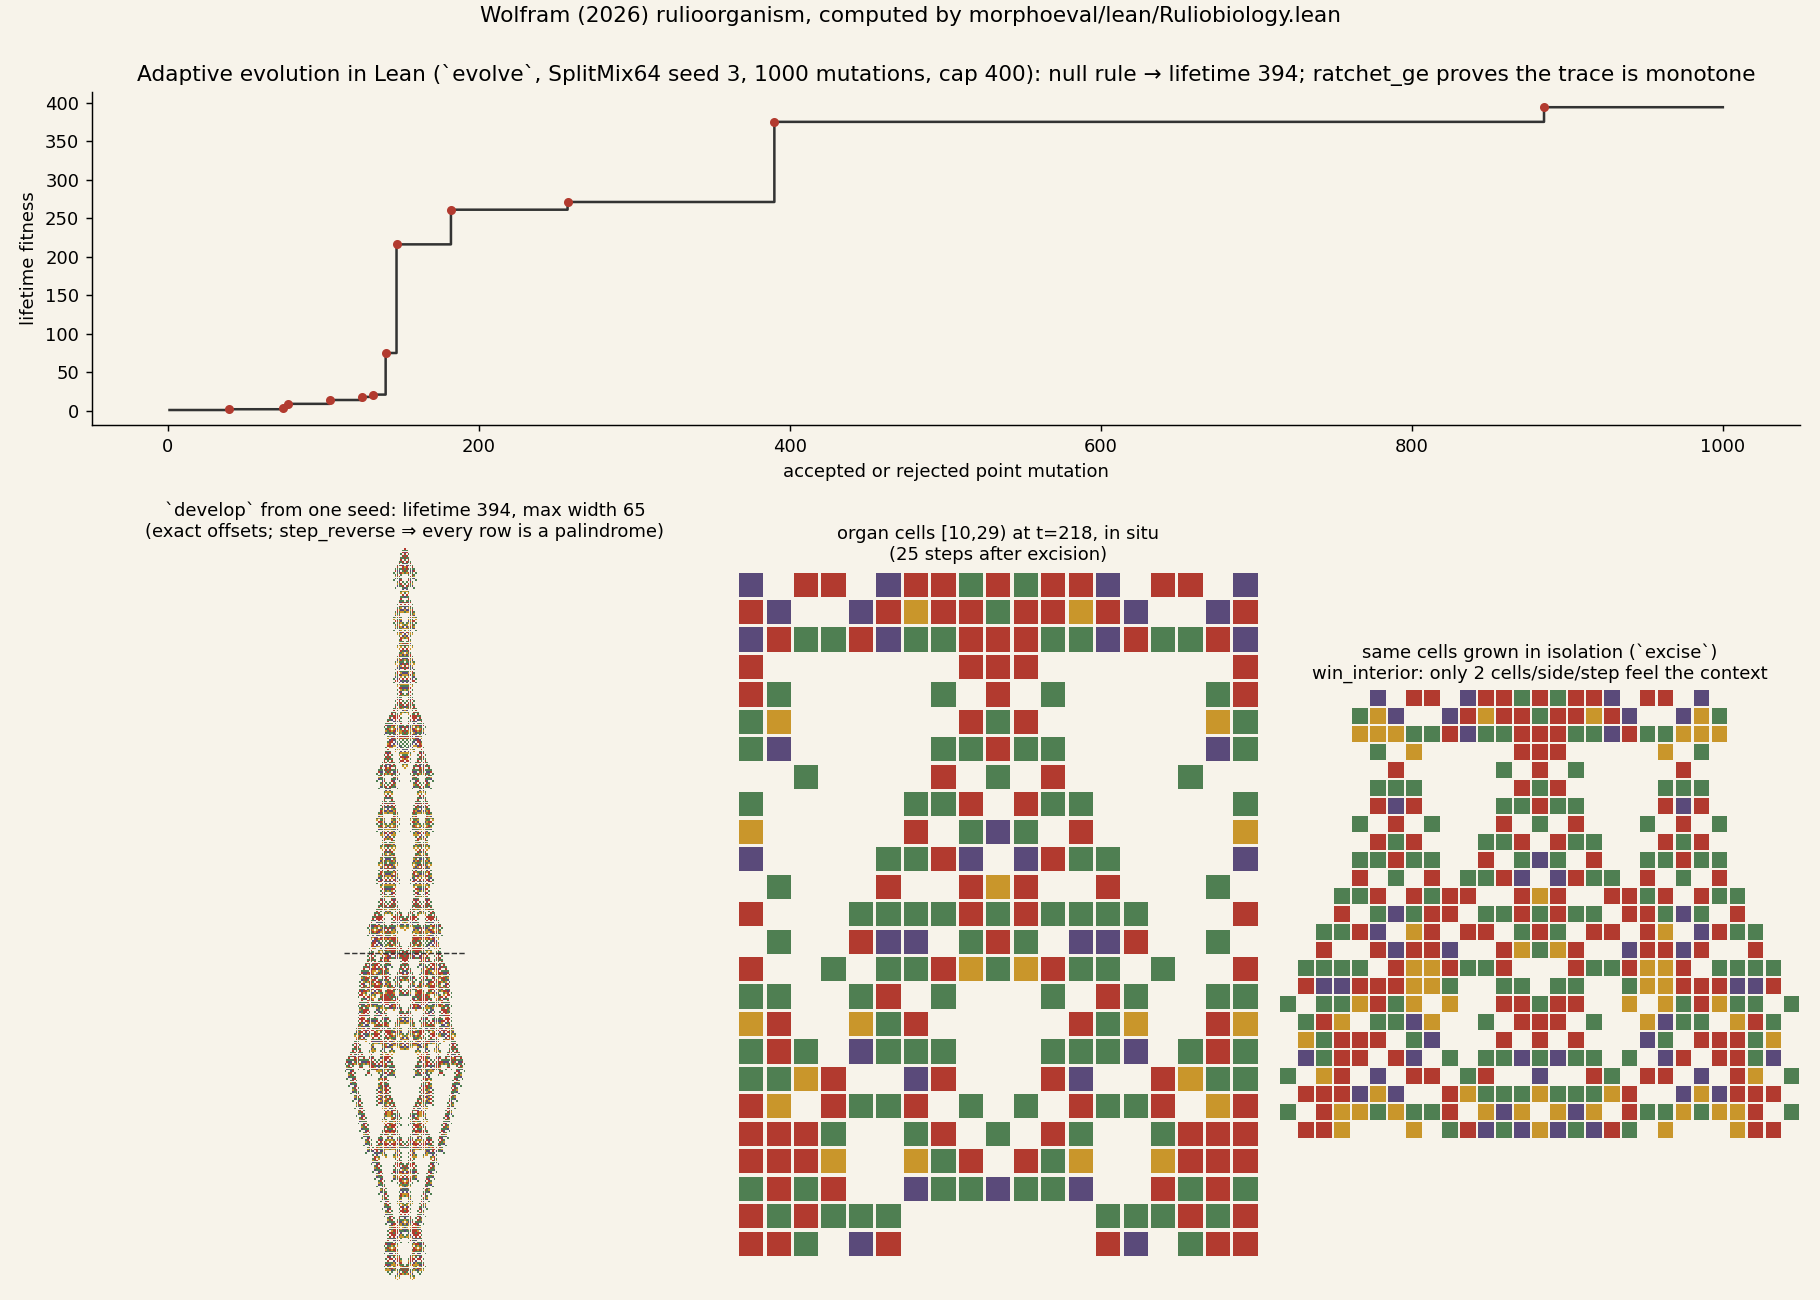
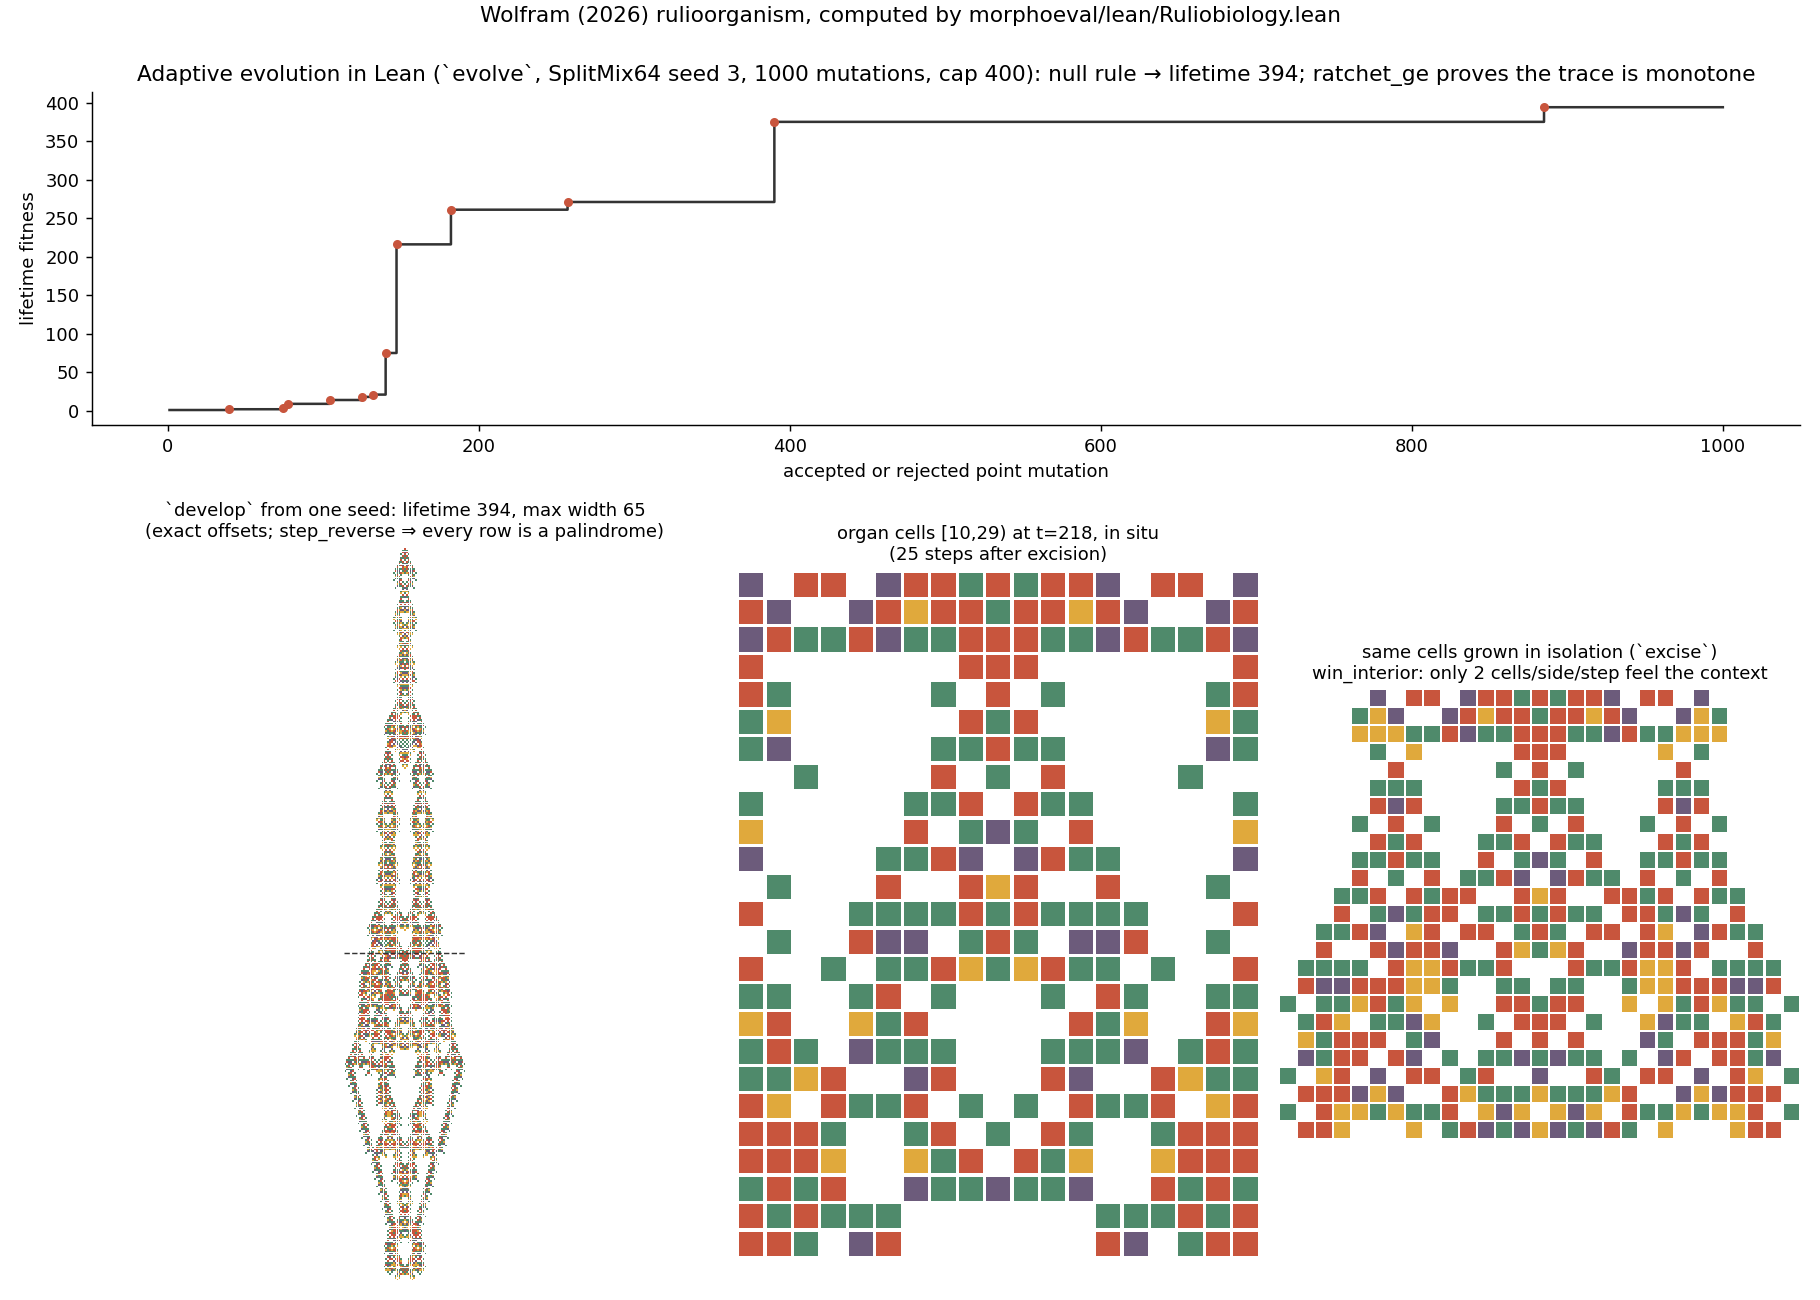
ruliobiology bridge: restyle showcase as a plate (white ground, body in vertical strips at fixed cell size, equal detail tiles from the densest tissue, sparkline, no chrome)

diff --git a/morphoeval/ruliobiology_lean_bridge.py b/morphoeval/ruliobiology_lean_bridge.py
@@ -150,9 +150,24 @@ def cross_check(n_random: int, cap: int, rng_seed: int) -> dict:
 # --------------------------------------------------------------------------- #
 # Drawing: large cells, hairline borders, quiet palette
 # --------------------------------------------------------------------------- #
-PAPER = "#f7f3ea"
-PALETTE = ["#f7f3ea", "#b23a2f", "#4f7f52", "#5a4a7a", "#c9962b"]   # void, red, green, purple, gold
-BORDER = "#f7f3ea"
+PAPER = "#ffffff"
+PALETTE = ["#ffffff", "#c8553d", "#4f8a6b", "#6c5b7b", "#e0a93c"]   # void, red, green, purple, gold
+INK = "#2b2b2b"
+INK_SOFT = "#8a8a8a"
+RULE = "#d9d9d9"
+
+
+def _rgb(grid: np.ndarray) -> np.ndarray:
+    from matplotlib.colors import to_rgb
+    lut = np.array([to_rgb(c) for c in PALETTE])
+    return lut[grid]
+
+
+def _quiet(ax) -> None:
+    ax.set_xticks([]); ax.set_yticks([])
+    ax.set_facecolor(PAPER)
+    for s in ax.spines.values():
+        s.set_visible(False)
 
 
 def draw_cells(ax, grid: np.ndarray, border: float = 0.12) -> None:
@@ -170,62 +185,120 @@ def draw_cells(ax, grid: np.ndarray, border: float = 0.12) -> None:
     ax.set_xlim(0, w)
     ax.set_ylim(h, 0)
     ax.set_aspect("equal")
-    ax.set_facecolor(PAPER)
-    ax.set_xticks([]); ax.set_yticks([])
-    for s in ax.spines.values():
-        s.set_visible(False)
+    _quiet(ax)
 
 
-def render_showcase(lineage: dict, cap: int, out: pathlib.Path, n_details: int = 3,
-                    detail_steps: int = 110) -> pathlib.Path:
-    """One organism: whole body on the left, `n_details` zoomed windows on the right,
-    fitness trace across the top."""
+def render_showcase(lineage: dict, cap: int, out: pathlib.Path, n_tiles: int = 4,
+                    tile: int = 40, cell_px: float = 3.0, tile_cell_px: float = 8.5,
+                    dpi: int = 150) -> pathlib.Path:
+    """A plate: the whole organism in vertical strips at a fixed cell size, a row of
+    equal square detail tiles at a larger cell size, a sparkline of the lineage's
+    fitness, and a one-line caption. No axes, ticks or frames."""
     import matplotlib
     matplotlib.use("Agg")
     import matplotlib.pyplot as plt
 
     champ = lean_develop(lineage["genome"], cap)
-    grid = stages_to_grid(champ["stages"])
+    stages = champ["stages"]
+    grid = stages_to_grid(stages)
     h, w = grid.shape
+    axis_col = -min(s["offset"] for s in stages)          # column of the seed cell
 
-    fig = plt.figure(figsize=(16, 15), facecolor=PAPER)
-    gs = fig.add_gridspec(1 + n_details, 2, width_ratios=[1, 1.9],
-                          height_ratios=[0.9] + [3.0] * n_details, hspace=0.12, wspace=0.04,
-                          left=0.04, right=0.98, top=0.95, bottom=0.02)
+    # --- geometry (inches) ---------------------------------------------------
+    cell = cell_px / dpi
+    tcell = tile_cell_px / dpi
+    n_strips = max(1, int(round(np.sqrt(1.6 * h / w))))  # strip grid ≈ 16:10
+    strip_h = -(-h // n_strips)
+    gap, margin = 0.30, 0.55
+    strips_w_in = n_strips * w * cell + (n_strips - 1) * gap
+    strips_h_in = strip_h * cell
+    tile_in = tile * tcell
+    tiles_w_in = n_tiles * tile_in + (n_tiles - 1) * gap
+    content_w = max(strips_w_in, tiles_w_in)
+    title_h, spark_h, label_h, caption_h = 0.50, 0.55, 0.22, 0.30
+    fig_w = content_w + 2 * margin
+    fig_h = (margin + title_h + spark_h + 0.35 + label_h + strips_h_in + 0.45
+             + label_h + tile_in + caption_h + margin)
 
-    ax = fig.add_subplot(gs[0, :])
+    fig = plt.figure(figsize=(fig_w, fig_h), facecolor=PAPER)
+    X = lambda x_in: x_in / fig_w                         # inches -> figure fraction
+    Y = lambda y_in: 1 - y_in / fig_h                     # from the top
+    y = margin
+
+    # --- title ----------------------------------------------------------------
+    n_breaks = len(lineage["breakthroughs"]) - 1
+    fig.text(X(margin), Y(y), "Rulioorganism", fontsize=13, color=INK, ha="left", va="top")
+    fig.text(X(margin), Y(y + 0.26),
+             f"symmetric 5-colour cellular automaton · {len(lineage['trace'])} point mutations from the null rule · "
+             f"{n_breaks} breakthroughs · lifetime {champ['lifetime']} · width {w}",
+             fontsize=8.5, color=INK_SOFT, ha="left", va="top")
+    y += title_h
+
+    # --- sparkline --------------------------------------------------------------
+    ax = fig.add_axes([X(margin), Y(y + spark_h), X(content_w), spark_h / fig_h])
     trace = lineage["trace"]
-    ax.step(range(1, len(trace) + 1), trace, where="post", color="#333", lw=1.2)
+    ax.step(range(1, len(trace) + 1), trace, where="post", color=INK, lw=0.9)
     for b in lineage["breakthroughs"][1:]:
-        ax.plot(b["step"], b["fitness"], "o", color=PALETTE[1], ms=3.5)
-    ax.set_facecolor(PAPER)
-    ax.set_xlabel("point mutation", fontsize=9)
-    ax.set_ylabel("lifetime", fontsize=9)
-    ax.tick_params(labelsize=8)
-    for s in ("top", "right"):
-        ax.spines[s].set_visible(False)
-    ax.set_title(f"lifetime {champ['lifetime']}, width {w}, {len(lineage['breakthroughs']) - 1} breakthroughs "
-                 f"in {len(trace)} mutations from the null rule\ngenome {lineage['genome']}",
-                 fontsize=9, loc="left", family="monospace")
+        ax.plot(b["step"], b["fitness"], "o", color=PALETTE[1], ms=3, mec=PAPER, mew=0.6)
+    ax.set_xlim(0, len(trace) * 1.04)
+    ax.set_ylim(-0.04 * max(trace), 1.15 * max(trace))
+    ax.text(len(trace) * 1.005, trace[-1], f"{trace[-1]}", fontsize=7.5, color=INK, va="center")
+    ax.text(0, 1.12 * max(trace), "lifetime fitness along the lineage, one step per point mutation",
+            fontsize=7.5, color=INK_SOFT, va="top")
+    ax.axhline(0, color=RULE, lw=0.6)
+    _quiet(ax)
+    y += spark_h + 0.35
 
-    # whole body
-    ax_body = fig.add_subplot(gs[1:, 0])
-    draw_cells(ax_body, grid, border=0.0)
-    ax_body.set_title("whole organism", fontsize=10)
+    # --- body in strips --------------------------------------------------------------
+    x0 = margin + (content_w - strips_w_in) / 2
+    for i in range(n_strips):
+        t0, t1 = i * strip_h, min(h, (i + 1) * strip_h)
+        sub = np.zeros((strip_h, w), dtype=np.int8)
+        sub[: t1 - t0] = grid[t0:t1]
+        left = x0 + i * (w * cell + gap)
+        fig.text(X(left), Y(y), f"steps {t0}–{t1}", fontsize=7.5, color=INK_SOFT, ha="left", va="top")
+        ax = fig.add_axes([X(left), Y(y + label_h + strips_h_in), (w * cell) / fig_w, strips_h_in / fig_h])
+        ax.imshow(_rgb(sub), interpolation="nearest", aspect="auto")
+        _quiet(ax)
+    y += label_h + strips_h_in + 0.45
 
-    # detail windows, evenly spaced through life
-    starts = [int(h * f) for f in np.linspace(0.08, 0.82, n_details)]
-    for i, t0 in enumerate(starts):
-        t1 = min(h, t0 + detail_steps)
-        sub = grid[t0:t1]
-        cols = np.flatnonzero(sub.any(axis=0))
-        sub = sub[:, cols[0] : cols[-1] + 1]
-        ax = fig.add_subplot(gs[1 + i, 1])
-        draw_cells(ax, sub)
-        ax.set_title(f"steps {t0}–{t1}", fontsize=10, loc="left")
-        ax_body.axhspan(t0, t1, color="#333", alpha=0.07, lw=0)
+    # --- detail tiles ---------------------------------------------------------------
+    x0 = margin + (content_w - tiles_w_in) / 2
+    fig.text(X(x0), Y(y), f"detail · {tile} × {tile} cells, the densest tissue in each quarter of life",
+             fontsize=7.5, color=INK_SOFT, ha="left", va="top")
+    live = (grid > 0).astype(np.int32)
+    # summed-area table -> live-cell count of any tile window in O(1)
+    S = np.zeros((h + 1, w + 1), dtype=np.int64)
+    S[1:, 1:] = live.cumsum(0).cumsum(1)
+    def count(t0: int, c0: int) -> int:
+        t1, c1 = min(h, t0 + tile), min(w, c0 + tile)
+        return int(S[t1, c1] - S[t0, c1] - S[t1, c0] + S[t0, c0])
+    bands = np.linspace(0, max(1, h - tile), n_tiles + 1).astype(int)
+    for i in range(n_tiles):
+        best, best_tc = -1, (bands[i], max(0, axis_col - tile // 2))
+        for t0 in range(bands[i], max(bands[i] + 1, bands[i + 1]), 4):
+            for c0 in range(0, max(1, w - tile + 1), 2):
+                n = count(t0, c0)
+                if n > best:
+                    best, best_tc = n, (t0, c0)
+        t0, c0 = best_tc
+        sub = np.zeros((tile, tile), dtype=np.int8)
+        src = grid[t0 : t0 + tile, c0 : c0 + tile]
+        sub[: src.shape[0], : src.shape[1]] = src
+        left = x0 + i * (tile_in + gap)
+        ax = fig.add_axes([X(left), Y(y + label_h + tile_in), tile_in / fig_w, tile_in / fig_h])
+        draw_cells(ax, sub, border=0.16)
+        ax.text(0, tile + 1.2, f"t = {t0}–{t0 + tile}", fontsize=7, color=INK_SOFT, va="top")
+    y += label_h + tile_in + 0.08
 
-    fig.savefig(out, dpi=110, facecolor=PAPER)
+    # --- caption ----------------------------------------------------------------------
+    fig.text(X(margin), Y(y + caption_h), f"genome {lineage['genome']}", fontsize=7, color=INK_SOFT,
+             family="monospace", ha="left", va="bottom")
+    fig.text(X(margin + content_w), Y(y + caption_h),
+             "computed and proved in morphoeval/lean/Ruliobiology.lean", fontsize=7, color=INK_SOFT,
+             ha="right", va="bottom")
+
+    fig.savefig(out, dpi=dpi, facecolor=PAPER)
     plt.close(fig)
     return out
 
